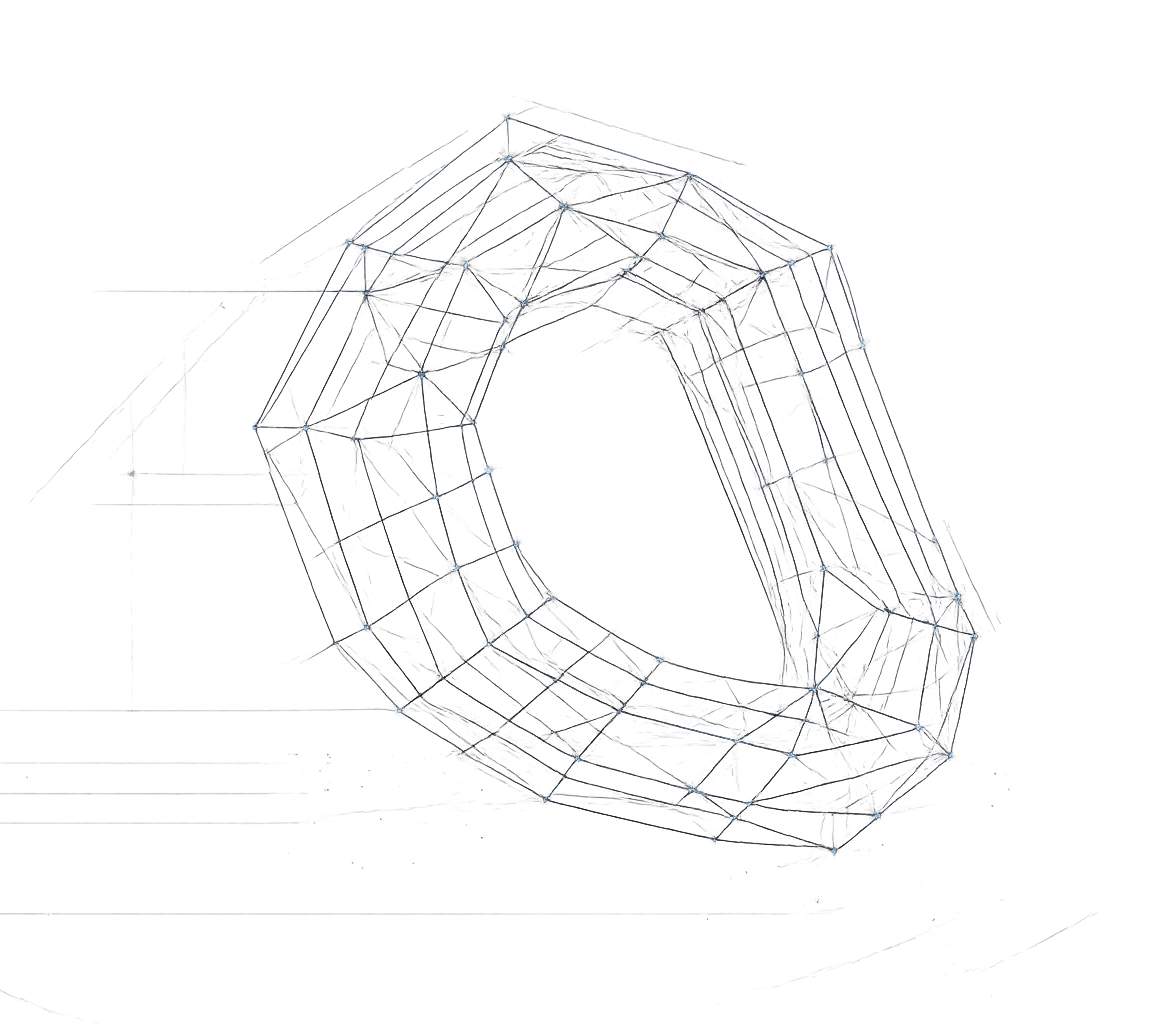
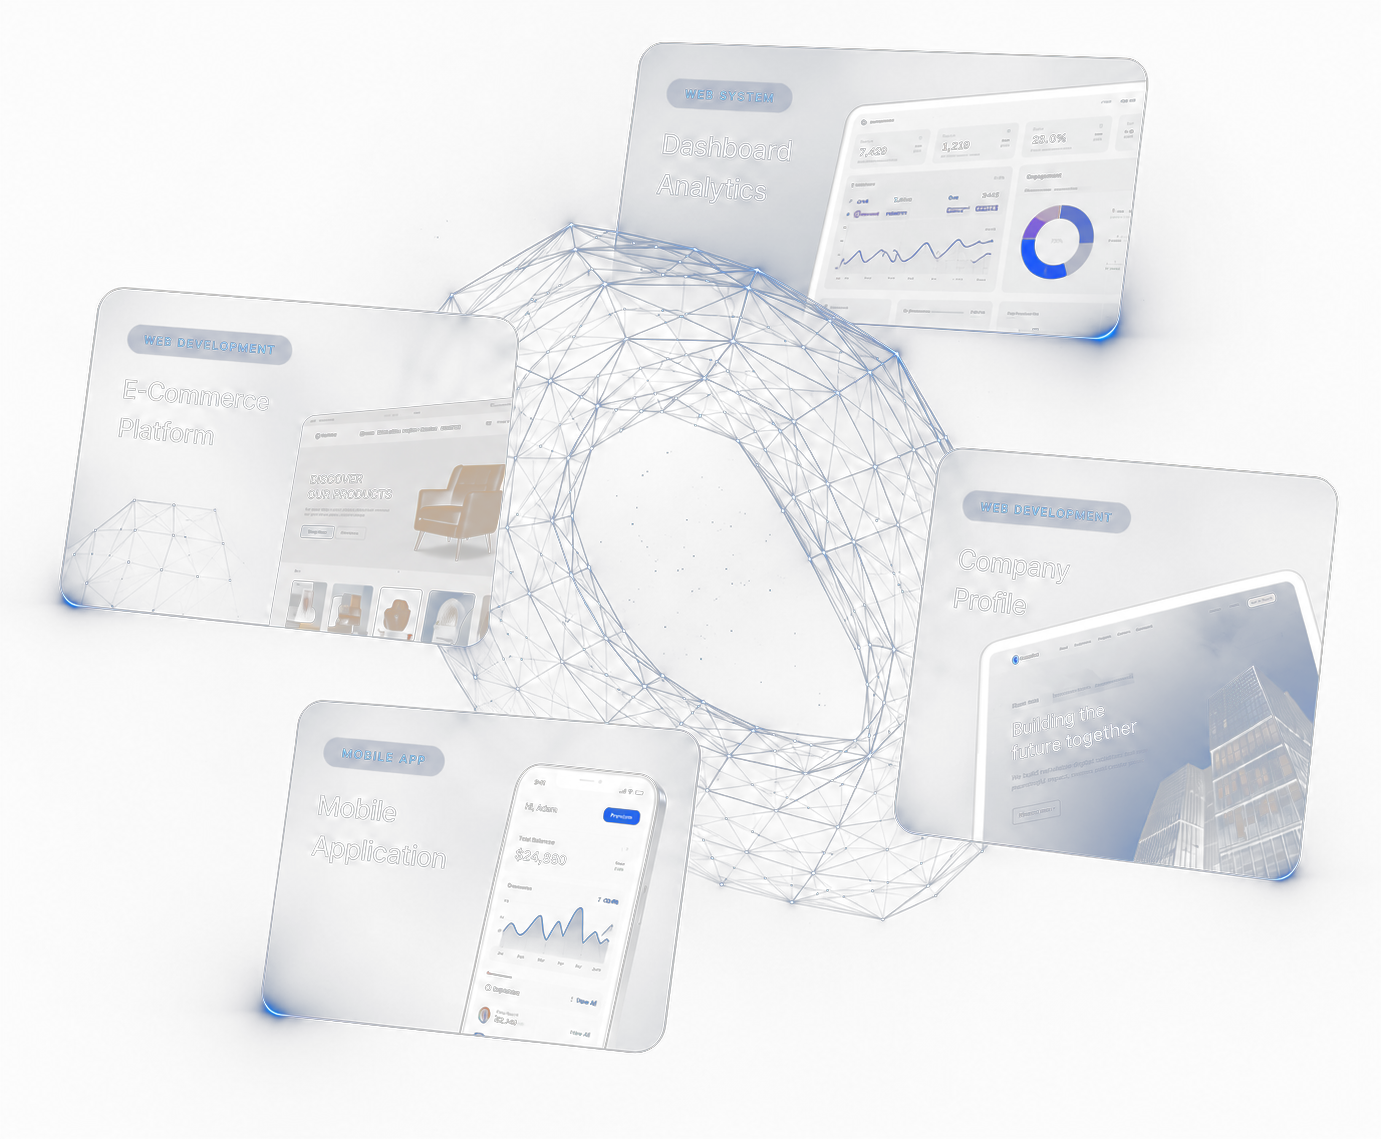
fix: add portofolio

diff --git a/src/shared/components/home/HeroSection.tsx b/src/shared/components/home/HeroSection.tsx
@@ -15,7 +15,7 @@ export default function HeroSection() {
   return (
     <section
       id="home"
-      className="relative flex min-h-[100dvh] flex-col items-center justify-center overflow-hidden bg-midnight px-6 py-20 sm:px-14 lg:px-24 xl:px-40 2xl:px-52"
+      className="relative flex min-h-[100dvh] flex-col items-center justify-center overflow-hidden bg-midnight px-6 py-32 sm:px-14 lg:px-24 xl:px-40 2xl:px-52"
     >
       <div
         className="pointer-events-none absolute -bottom-40 -left-40 h-[32rem] w-[32rem] rounded-full bg-blue-600/25 blur-3xl"
@@ -23,43 +23,6 @@ export default function HeroSection() {
       />
 
       <HeroScene />
-
-      <div
-        className="pointer-events-none absolute right-0 bottom-2 aspect-[1156/1024] w-[min(85vw,420px)] sm:right-4 sm:bottom-4 sm:w-[min(68vw,520px)] lg:-right-4 lg:bottom-6 lg:w-[560px] xl:-right-6 xl:w-[700px] 2xl:-right-8 2xl:w-[820px]"
-        style={{ mixBlendMode: "screen" }}
-        aria-hidden
-      >
-        <Image
-          src={rightHeroImage}
-          alt=""
-          fill
-          sizes="(min-width: 1024px) 820px, 340px"
-          className="object-contain"
-          priority
-        />
-      </div>
-
-      <div
-        className="pointer-events-none absolute left-16 top-1/2 hidden -translate-y-1/2 flex-col gap-2 lg:flex xl:left-24"
-        aria-hidden
-      >
-        <svg width="140" height="180" viewBox="0 0 140 180" className="text-wireframe-line/30">
-          <circle cx="8" cy="20" r="2" fill="currentColor" />
-          <circle cx="60" cy="60" r="2" fill="currentColor" />
-          <circle cx="20" cy="120" r="2" fill="currentColor" />
-          <circle cx="90" cy="150" r="2" fill="currentColor" />
-          <line x1="8" y1="20" x2="60" y2="60" stroke="currentColor" strokeWidth="1" />
-          <line x1="60" y1="60" x2="20" y2="120" stroke="currentColor" strokeWidth="1" />
-          <line x1="20" y1="120" x2="90" y2="150" stroke="currentColor" strokeWidth="1" />
-        </svg>
-        <span className="font-mono text-[10px] font-medium uppercase leading-relaxed tracking-widest text-white/40">
-          {t.hero.eyebrowLine1}
-          <br />
-          {t.hero.eyebrowLine2}
-          <br />
-          {t.hero.eyebrowLine3}
-        </span>
-      </div>
 
       <div
         className="pointer-events-none absolute right-16 top-32 hidden items-start gap-2 font-mono text-[10px] uppercase tracking-widest text-white/40 lg:flex xl:right-24 xl:top-36"
@@ -73,41 +36,54 @@ export default function HeroSection() {
         </span>
       </div>
 
-      <div className="relative z-10 mx-auto flex max-w-3xl flex-col items-start text-left sm:items-center sm:text-center">
-        <h1
-          className="font-display text-6xl text-foreground sm:text-7xl lg:text-8xl"
-          style={{ fontWeight: 500 }}
-        >
-          {t.hero.titleLine1}
-          <br />
-          {t.hero.titleLine2Prefix ? `${t.hero.titleLine2Prefix} ` : ""}
-          <span className="bg-gradient-to-r from-blue-400 to-blue-600 bg-clip-text italic text-transparent">
-            {t.hero.titleHighlight}
-          </span>
-          {t.hero.titleLine2Suffix ? ` ${t.hero.titleLine2Suffix}` : ""}
-        </h1>
-        <p className="mt-6 max-w-lg text-base text-white/70 sm:text-lg" style={{ fontWeight: 200 }}>
-          {t.hero.description}
-        </p>
-
-        <div className="mt-10 flex flex-col gap-4 sm:flex-row">
-          <Button
-            asChild
-            size="lg"
-            className="rounded-full bg-gradient-to-r from-blue-600 to-blue-400 text-white hover:opacity-90"
-            style={{ fontWeight: 200 }}
+      <div className="relative z-10 mx-auto grid w-full max-w-7xl grid-cols-1 items-center gap-12 lg:grid-cols-2 lg:gap-8">
+        <div className="flex flex-col items-start text-left">
+          <h1
+            className="font-display text-6xl text-foreground sm:text-7xl lg:text-8xl"
+            style={{ fontWeight: 500 }}
           >
-            <Link href="#our-team" className="inline-flex items-center gap-2">
-              {t.hero.primaryCta}
-              <ArrowRight className="h-4 w-4" />
-            </Link>
-          </Button>
-          <Button asChild size="lg" variant="outline" className="rounded-full" style={{ fontWeight: 200 }}>
-            <Link href="#culture" className="inline-flex items-center gap-2">
-              {t.hero.secondaryCta}
-              <ArrowRight className="h-4 w-4" />
-            </Link>
-          </Button>
+            {t.hero.titleLine1}
+            <br />
+            {t.hero.titleLine2Prefix ? `${t.hero.titleLine2Prefix} ` : ""}
+            <span className="bg-gradient-to-r from-blue-400 to-blue-600 bg-clip-text italic text-transparent">
+              {t.hero.titleHighlight}
+            </span>
+            {t.hero.titleLine2Suffix ? ` ${t.hero.titleLine2Suffix}` : ""}
+          </h1>
+          <p className="mt-6 max-w-lg text-base text-white/70 sm:text-lg" style={{ fontWeight: 200 }}>
+            {t.hero.description}
+          </p>
+
+          <div className="mt-10 flex flex-col gap-4 sm:flex-row">
+            <Button
+              asChild
+              size="lg"
+              className="rounded-full bg-gradient-to-r from-blue-600 to-blue-400 text-white hover:opacity-90"
+              style={{ fontWeight: 200 }}
+            >
+              <Link href="#our-team" className="inline-flex items-center gap-2">
+                {t.hero.primaryCta}
+                <ArrowRight className="h-4 w-4" />
+              </Link>
+            </Button>
+            <Button asChild size="lg" variant="outline" className="rounded-full" style={{ fontWeight: 200 }}>
+              <Link href="#culture" className="inline-flex items-center gap-2">
+                {t.hero.secondaryCta}
+                <ArrowRight className="h-4 w-4" />
+              </Link>
+            </Button>
+          </div>
+        </div>
+
+        <div className="relative mx-auto hidden aspect-[1381/1139] w-full max-w-[520px] sm:block lg:max-w-none">
+          <Image
+            src={rightHeroImage}
+            alt=""
+            fill
+            sizes="(min-width: 1024px) 700px, 520px"
+            className="scale-[1.3] object-contain"
+            priority
+          />
         </div>
       </div>
     </section>

diff --git a/src/shared/components/home/OurTeamSection.tsx b/src/shared/components/home/OurTeamSection.tsx
@@ -1,23 +1,31 @@
 import Image from "next/image";
 
 import gueyPhoto from "@/shared/images/guey.jpg";
+import ifalPhoto from "@/shared/images/ifal.webp";
 import TeamMemberCard from "@/shared/components/home/TeamMemberCard";
 import { useTranslations } from "@/shared/i18n";
 
-const teamMemberLinks: Record<string, { linkedinUrl: string; image?: typeof gueyPhoto }> = {
+const teamMemberLinks: Record<string, { linkedinUrl: string; image?: typeof gueyPhoto; imageClassName?: string }> = {
   "dzikri-alan": { linkedinUrl: "https://www.linkedin.com/in/dzikri-alan/", image: gueyPhoto },
-  ifaldzi: { linkedinUrl: "#contact" },
+  ifaldzi: {
+    linkedinUrl: "https://www.linkedin.com/in/ifaldzi-alwi-hudhori-5a2220149/",
+    image: ifalPhoto,
+    imageClassName: "object-cover object-center",
+  },
   fitri: { linkedinUrl: "#contact" },
 };
 
 export default function OurTeamSection() {
   const { t } = useTranslations();
 
-  const teamMembers = Object.entries(t.ourTeam.members).map(([id, member]) => ({
-    id,
-    ...member,
-    ...teamMemberLinks[id],
-  }));
+  const hiddenMemberIds = new Set(["fitri"]);
+  const teamMembers = Object.entries(t.ourTeam.members)
+    .filter(([id]) => !hiddenMemberIds.has(id))
+    .map(([id, member]) => ({
+      id,
+      ...member,
+      ...teamMemberLinks[id],
+    }));
 
   return (
     <section
@@ -41,6 +49,7 @@ export default function OurTeamSection() {
                 name={member.name}
                 role={member.role}
                 image={member.image}
+                imageClassName={member.imageClassName}
                 linkedinUrl={member.linkedinUrl}
                 connectLabel={t.ourTeam.connectLinkedin}
               />

diff --git a/src/shared/i18n/dictionaries/en.ts b/src/shared/i18n/dictionaries/en.ts
@@ -14,9 +14,6 @@ const en = {
     closeMenu: "Close menu",
   },
   hero: {
-    eyebrowLine1: "Defining",
-    eyebrowLine2: "digital identities",
-    eyebrowLine3: "that matter",
     titleLine1: "Define",
     titleLine2Prefix: "Your",
     titleHighlight: "Identity",
@@ -60,6 +57,18 @@ const en = {
         title: "Cost Control System for PT Akkarya Jaya Pratama",
         description:
           "A project cost-control dashboard tracking budgets, expenses, and cash flow across active construction projects in real time.",
+        cta: "Explore the work",
+      },
+      "zaidan-arrafif": {
+        title: "Zaidan Arrafif — Daily Journal & Qur'an Memorizing App",
+        description:
+          "A daily journal entry and Qur'an memorizing Android app with gamification for Zaidan Educare Elementary School, awarded 1st place at POLBAN Student Scientific Week 2021 in the PKM-PM category.",
+        cta: "Explore the work",
+      },
+      opencommiss: {
+        title: "Backend for OpenCommiss — Open Commission Art Platform",
+        description:
+          "The backend for OpenCommiss, an open commission art platform connecting digital illustrators with clients, integrated with the Xendit payment gateway. Built as a POLBAN diploma final project.",
         cta: "Explore the work",
       },
     },

diff --git a/src/shared/i18n/dictionaries/id.ts b/src/shared/i18n/dictionaries/id.ts
@@ -16,9 +16,6 @@ const id: Dictionary = {
     closeMenu: "Tutup menu",
   },
   hero: {
-    eyebrowLine1: "Mendefinisikan",
-    eyebrowLine2: "identitas digital",
-    eyebrowLine3: "yang berarti",
     titleLine1: "Definisikan",
     titleLine2Prefix: "",
     titleHighlight: "Identitas",
@@ -62,6 +59,18 @@ const id: Dictionary = {
         title: "Sistem Cost Control untuk PT Akkarya Jaya Pratama",
         description:
           "Dashboard kontrol biaya proyek yang melacak anggaran, pengeluaran, dan arus kas di seluruh proyek konstruksi yang berjalan secara real-time.",
+        cta: "Jelajahi hasil kerja",
+      },
+      "zaidan-arrafif": {
+        title: "Zaidan Arrafif — Aplikasi Jurnal Harian & Hafalan Qur'an",
+        description:
+          "Aplikasi Android jurnal harian dan hafalan Qur'an dengan gamifikasi untuk SD Zaidan Educare, meraih Juara 1 POLBAN Student Scientific Week 2021 kategori PKM-PM.",
+        cta: "Jelajahi hasil kerja",
+      },
+      opencommiss: {
+        title: "Backend OpenCommiss — Platform Open Commission Art",
+        description:
+          "Sisi backend OpenCommiss, platform open commission art yang mempertemukan ilustrator digital dengan klien, terintegrasi dengan payment gateway Xendit. Dibangun sebagai proyek akhir diploma di POLBAN.",
         cta: "Jelajahi hasil kerja",
       },
     },

diff --git a/src/shared/components/home/TeamMemberCard.tsx b/src/shared/components/home/TeamMemberCard.tsx
@@ -6,6 +6,7 @@ interface Props {
   name: string;
   role: string;
   image?: StaticImageData;
+  imageClassName?: string;
   linkedinUrl: string;
   connectLabel: string;
 }
@@ -18,7 +19,7 @@ const getInitials = (name: string) =>
     .slice(0, 2)
     .toUpperCase();
 
-export default function TeamMemberCard({ name, role, image, linkedinUrl, connectLabel }: Props) {
+export default function TeamMemberCard({ name, role, image, imageClassName, linkedinUrl, connectLabel }: Props) {
   return (
     <div className="flex flex-col">
       <div className="relative aspect-square w-full overflow-hidden bg-white">
@@ -28,7 +29,7 @@ export default function TeamMemberCard({ name, role, image, linkedinUrl, connect
             alt={name}
             fill
             sizes="(min-width: 1024px) 33vw, 90vw"
-            className="scale-125 object-cover object-top"
+            className={imageClassName ?? "scale-125 object-cover object-top"}
           />
         ) : (
           <div className="flex h-full w-full items-center justify-center bg-secondary">

diff --git a/src/shared/components/home/PortfolioSection.tsx b/src/shared/components/home/PortfolioSection.tsx
@@ -8,12 +8,16 @@ import { ArrowRight } from "lucide-react";
 import { useTranslations } from "@/shared/i18n";
 import lspImage from "@/shared/images/lsp.png";
 import costControlImage from "@/shared/images/costcontrol.png";
+import zaidanArrafifImage from "@/shared/images/zaidan-arrafif-screen.webp";
+import openCommissImage from "@/shared/images/opencommiss-home.webp";
 
 const AUTOPLAY_INTERVAL_MS = 6000;
 
 const portfolioImages: Record<string, { src: StaticImageData; alt: string }> = {
   "lsp-smkn2-cikarang-barat": { src: lspImage, alt: "LSP SMKN 2 Cikarang Barat certification dashboard" },
   "cost-control-akkarya-jaya": { src: costControlImage, alt: "Cost Control dashboard for PT Akkarya Jaya Pratama" },
+  "zaidan-arrafif": { src: zaidanArrafifImage, alt: "Zaidan Arrafif journal and Qur'an memorizing app screens" },
+  opencommiss: { src: openCommissImage, alt: "OpenCommiss open commission art platform homepage" },
 };
 
 export default function PortfolioSection() {